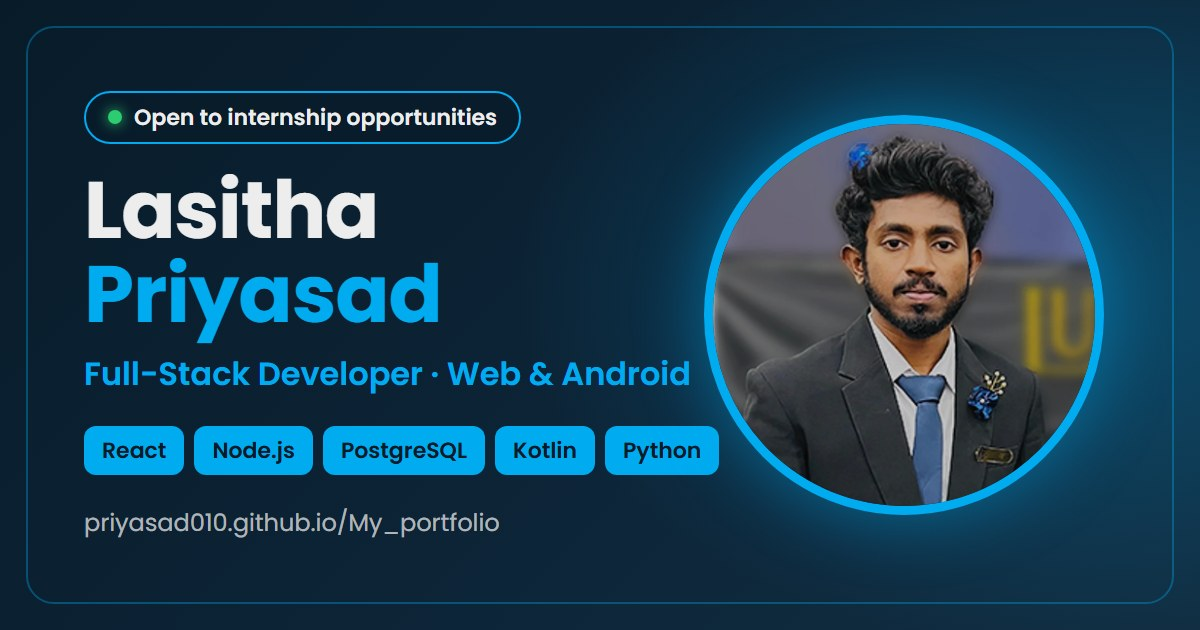
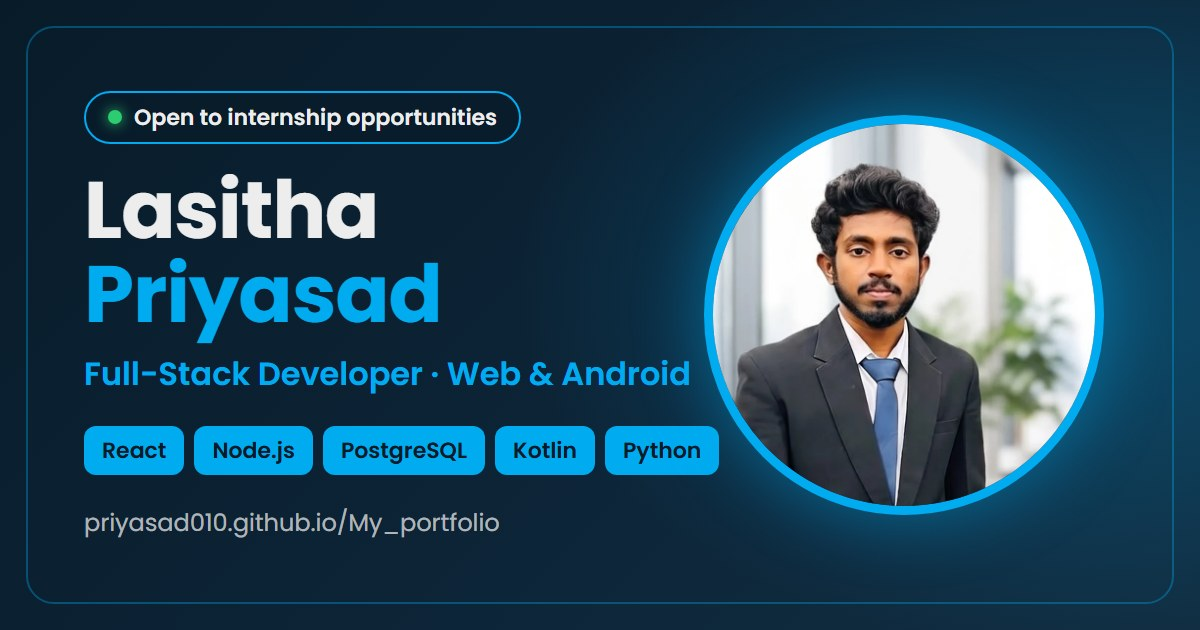
Use new high-quality profile photo and regenerate share image

Changed region(s): [[0.5858, 0.181, 0.925, 0.8143]]

diff --git a/index.html b/index.html
@@ -110,7 +110,7 @@
 
         <div class="home-img">
             <div class="img-border">
-                <img src="images/profile.webp" width="786" height="933" fetchpriority="high" alt="Lasitha Priyasad profile photo">
+                <img src="images/profile.webp" width="780" height="780" fetchpriority="high" alt="Lasitha Priyasad profile photo">
             </div>
         </div>
 
@@ -128,7 +128,7 @@
 
         <div class="about-img">
             <div class="img-border">
-                <img src="images/profile.webp" width="786" height="933" alt="About Lasitha" loading="lazy">
+                <img src="images/profile.webp" width="780" height="780" alt="About Lasitha" loading="lazy">
             </div>
             <span class="circle-spin"></span>
         </div>
